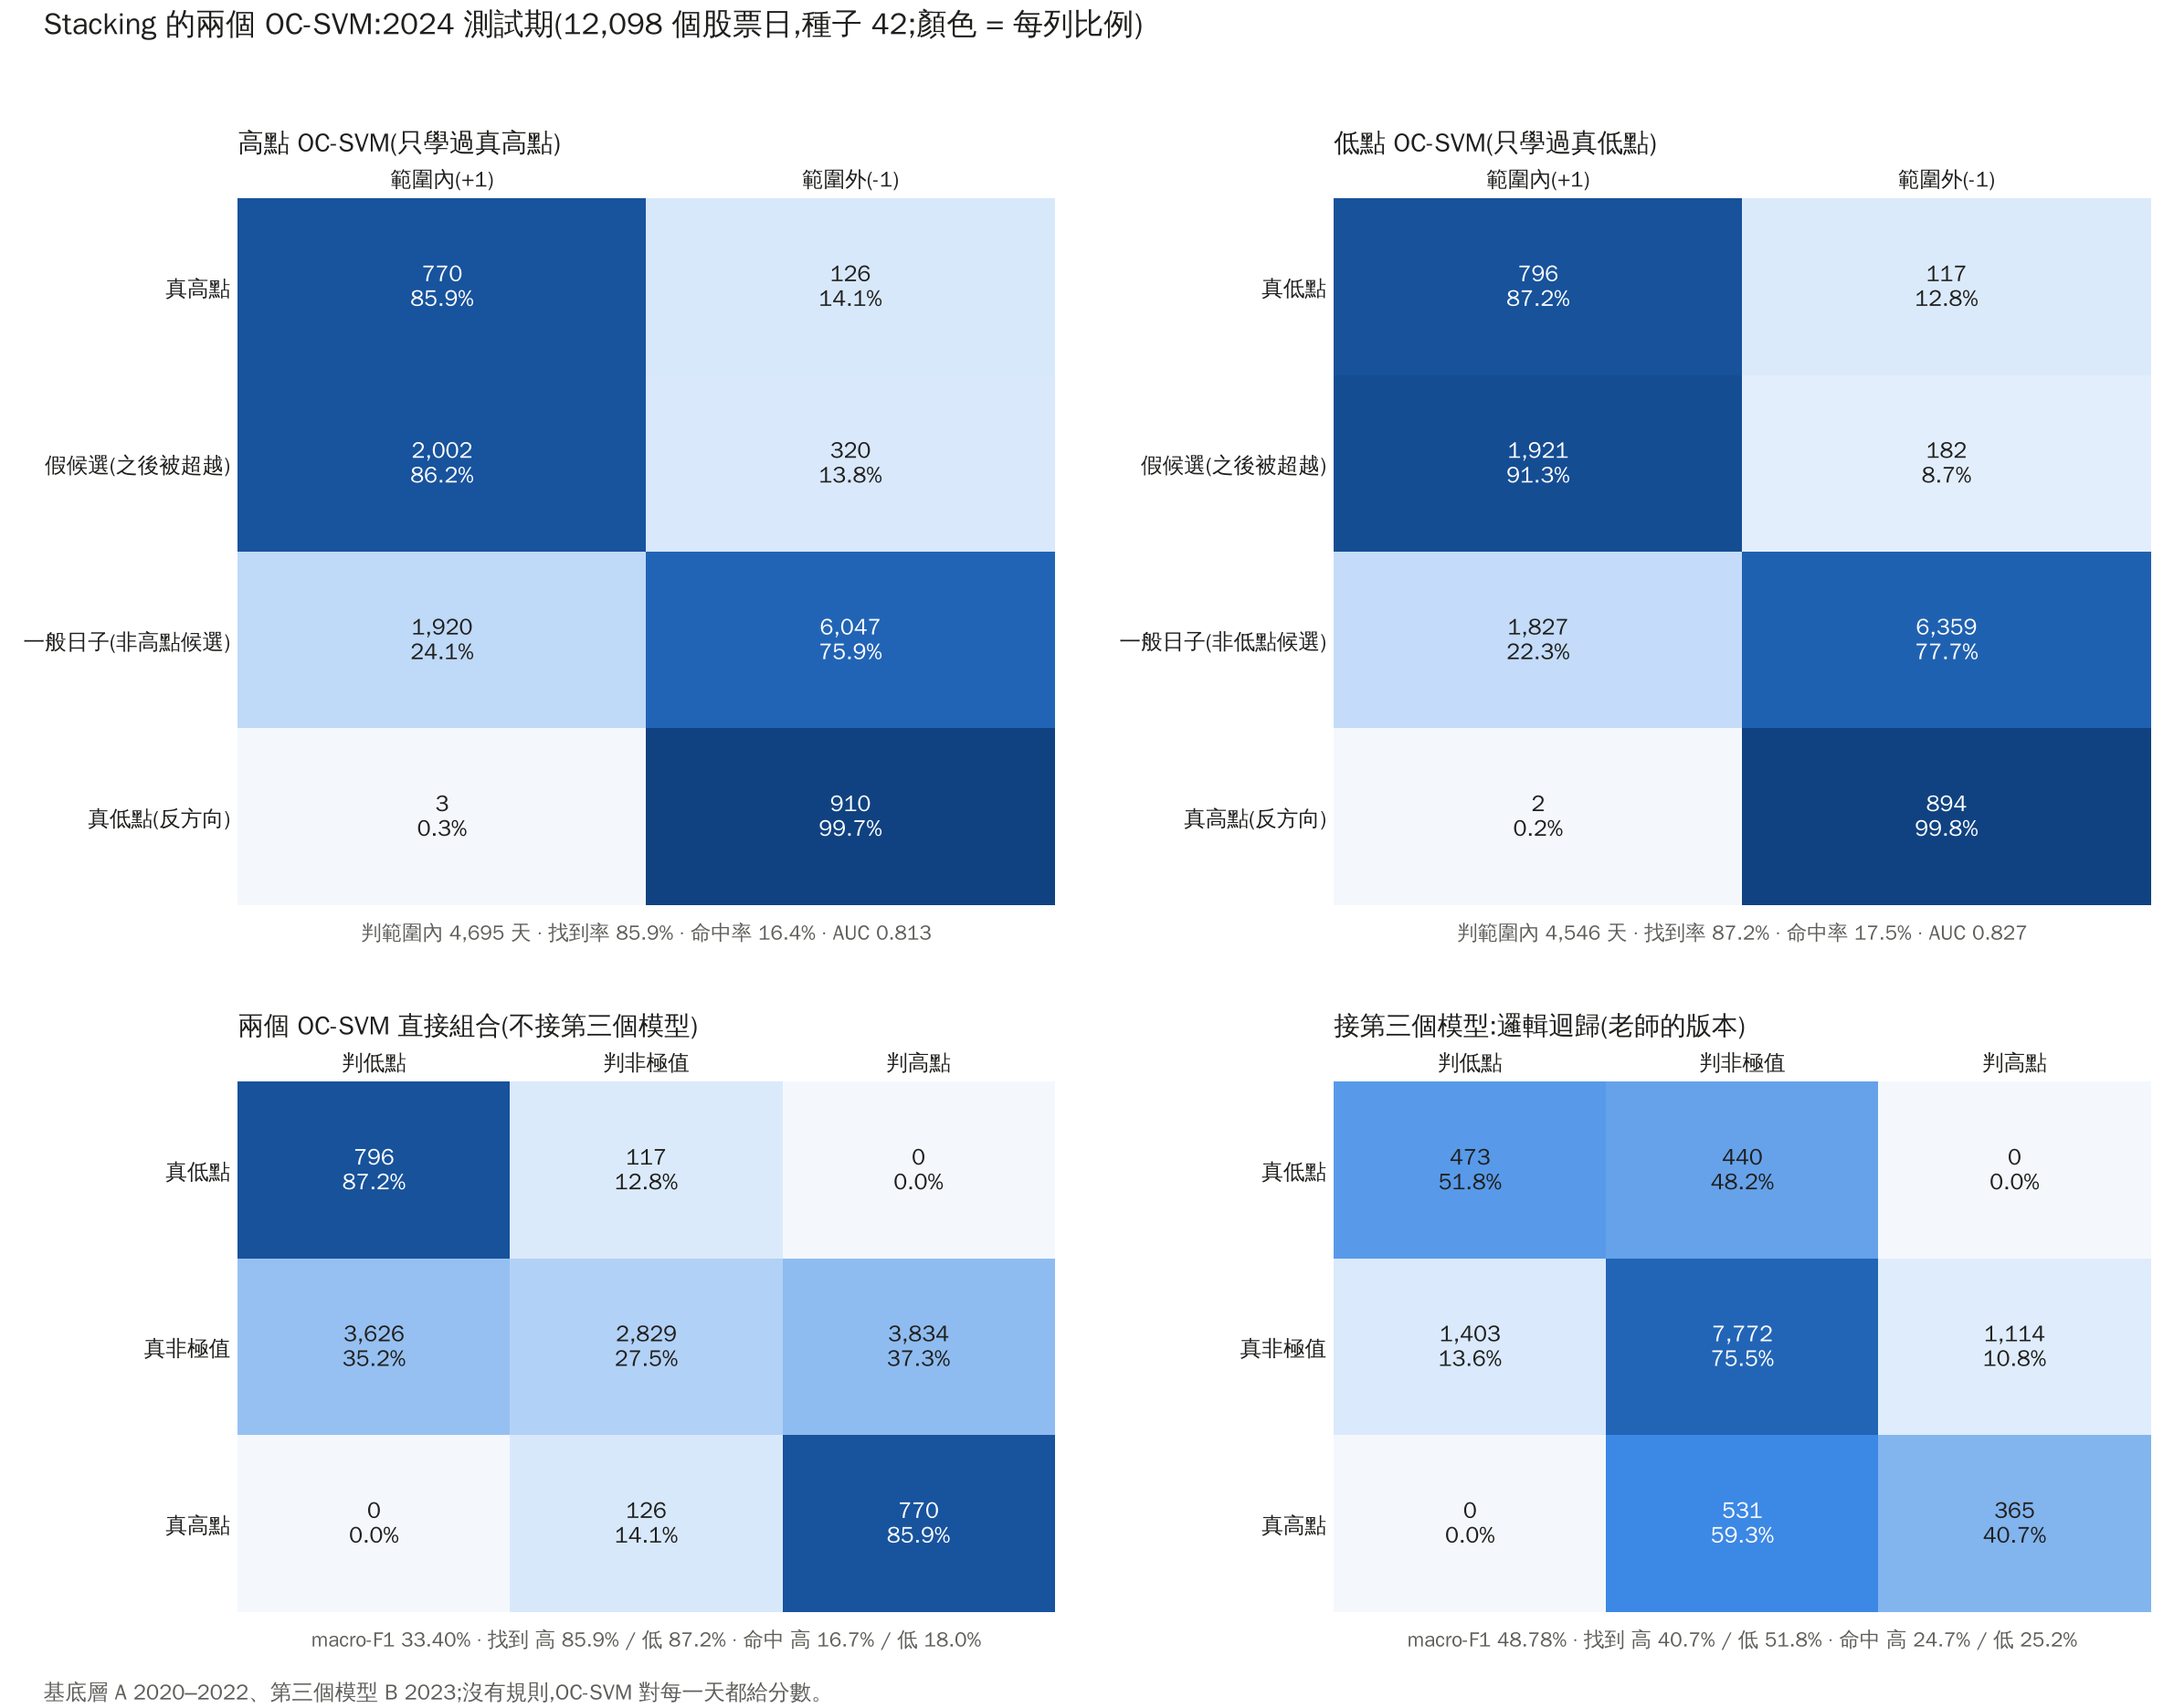
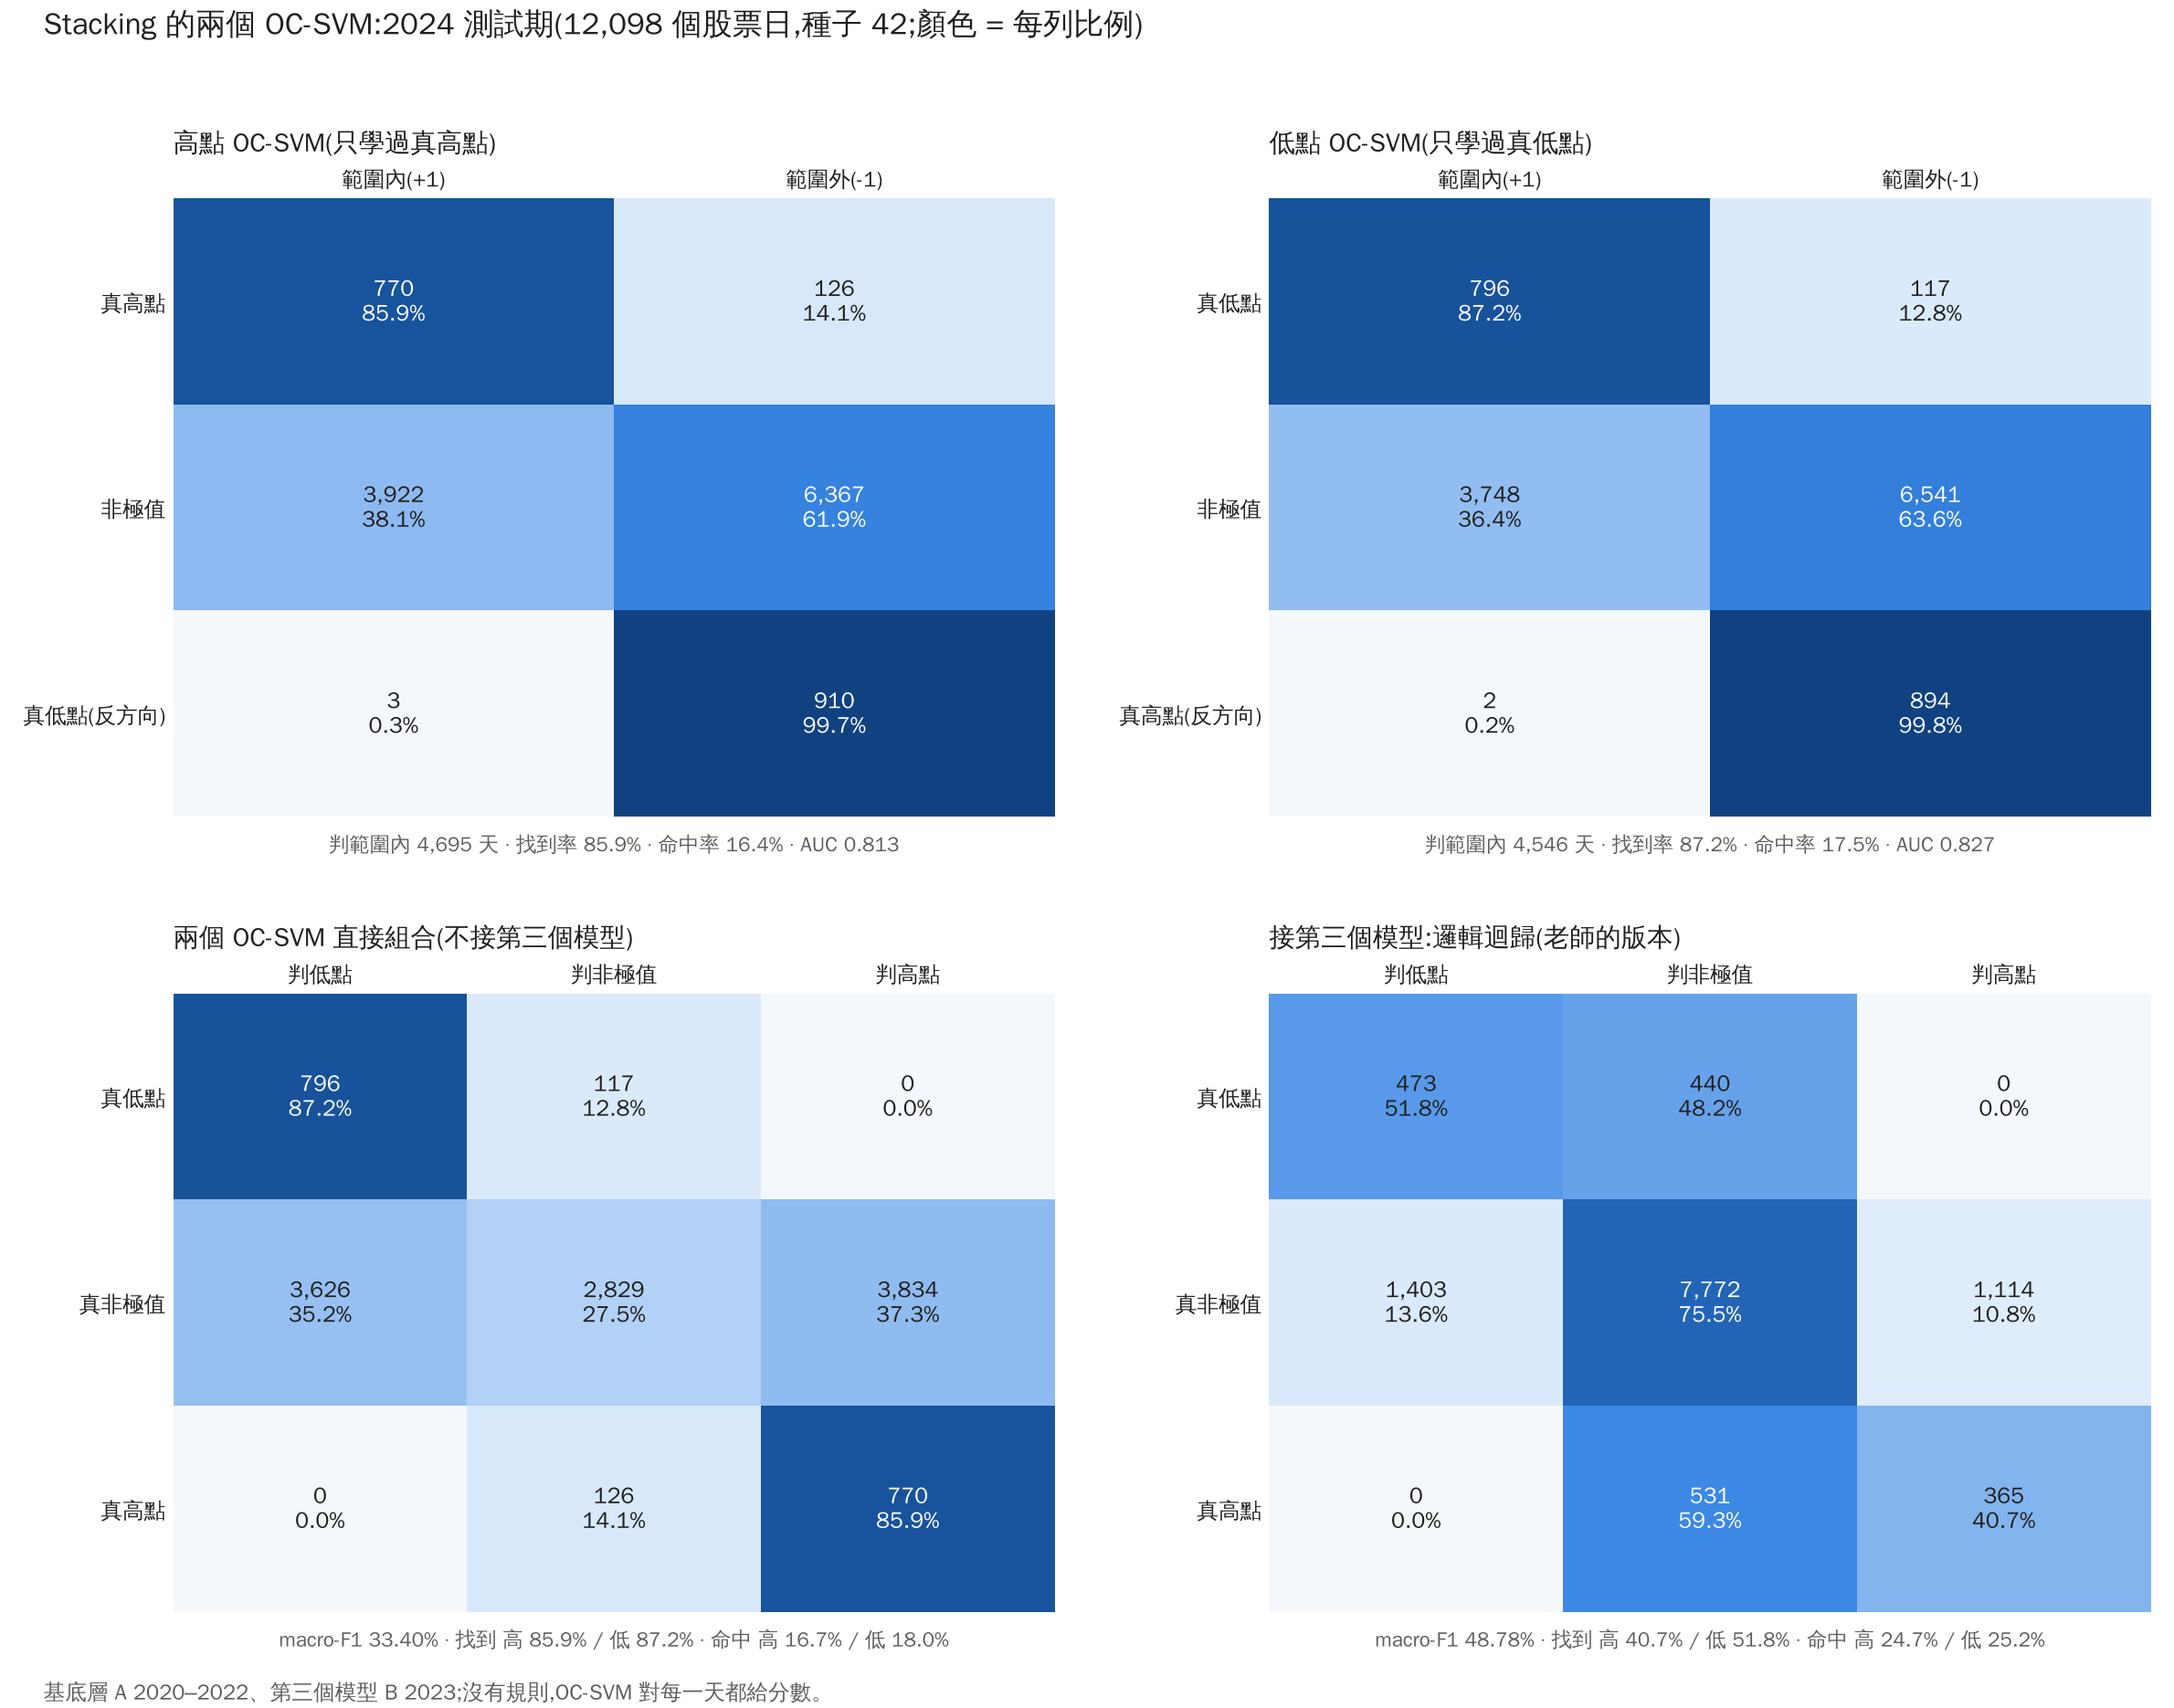
OC-SVM 混淆矩陣:拿掉假候選那列,改依真實標籤分列(真點 / 非極值 / 反方向)
Claude-Session: https://claude.ai/code/session_01RvyJEXgmE4WpkLZabV7Xr1

diff --git a/method_kline_peak/report/ocsvm_confusion.py b/method_kline_peak/report/ocsvm_confusion.py
@@ -1,7 +1,6 @@
 """Stacking 基底層兩個 OC-SVM 的混淆矩陣(種子 42)。
 
-左上 / 右上:高點、低點 OC-SVM 各自的判斷(範圍內 +1 / 範圍外 −1),依日子類型分列:
-             同方向的真點、假候選(之後 5 天被超越)、一般日子(非該方向候選)、反方向的真點
+左上 / 右上:高點、低點 OC-SVM 各自的判斷(範圍內 +1 / 範圍外 −1),依真實標籤分列:同方向的真點、非極值、反方向的真點
 左下:兩個 OC-SVM 直接組合成三分類(不接第三個模型;兩個都 +1 時看分數大的)
 右下:接第三個模型(多類別邏輯迴歸,只用兩個分數 = 老師的版本)
 切分:2024 → A 2020–2022、B 2023;2025 → A 2020–2022、B 2023–2024(起點同為 2020)
@@ -33,11 +32,9 @@ plt.rcParams["axes.unicode_minus"] = False
 LABELS = ["低點", "非極值", "高點"]
 
 
-def binary_table(C, y, inside, cls):
+def binary_table(y, inside, cls):
     me, other = ("高", "低") if cls == DOWN else ("低", "高")
-    cand = C[ML.CAND[cls]].to_numpy()
-    groups = [(f"真{me}點", y == cls), ("假候選(之後被超越)", cand & (y != cls)),
-              (f"一般日子(非{me}點候選)", ~cand & (y != cls) & (y != (UP if cls == DOWN else DOWN))), (f"真{other}點(反方向)", y == (UP if cls == DOWN else DOWN))]
+    groups = [(f"真{me}點", y == cls), ("非極值", y == FLAT), (f"真{other}點(反方向)", y == (UP if cls == DOWN else DOWN))]
     rows = [[int((inside & g).sum()), int((~inside & g).sum())] for _, g in groups]
     return [n for n, _ in groups], np.array(rows)
 
@@ -79,12 +76,12 @@ def main():
     base = S.BaseScorers(42).fit(A, fc)
     FB, FC = base.transform(B), base.transform(C)
 
-    fig, axes = plt.subplots(2, 2, figsize=(14, 11), dpi=170, gridspec_kw={"height_ratios": [4, 3]})
+    fig, axes = plt.subplots(2, 2, figsize=(14, 11), dpi=170, gridspec_kw={"height_ratios": [3, 3]})
     inside = {}
     for ax, cls, col, name in ((axes[0, 0], DOWN, "s_high", "高點"), (axes[0, 1], UP, "s_low", "低點")):
         s = FC[col].to_numpy()
         inside[cls] = s >= 0
-        rows, cm = binary_table(C, y, inside[cls], cls)
+        rows, cm = binary_table(y, inside[cls], cls)
         tp, n_in = cm[0, 0], inside[cls].sum()
         from sklearn.metrics import roc_auc_score
         sub = f"判範圍內 {n_in:,} 天 · 找到率 {tp / cm[0].sum():.1%} · 命中率 {tp / n_in:.1%} · AUC {roc_auc_score(y == cls, s):.3f}"
